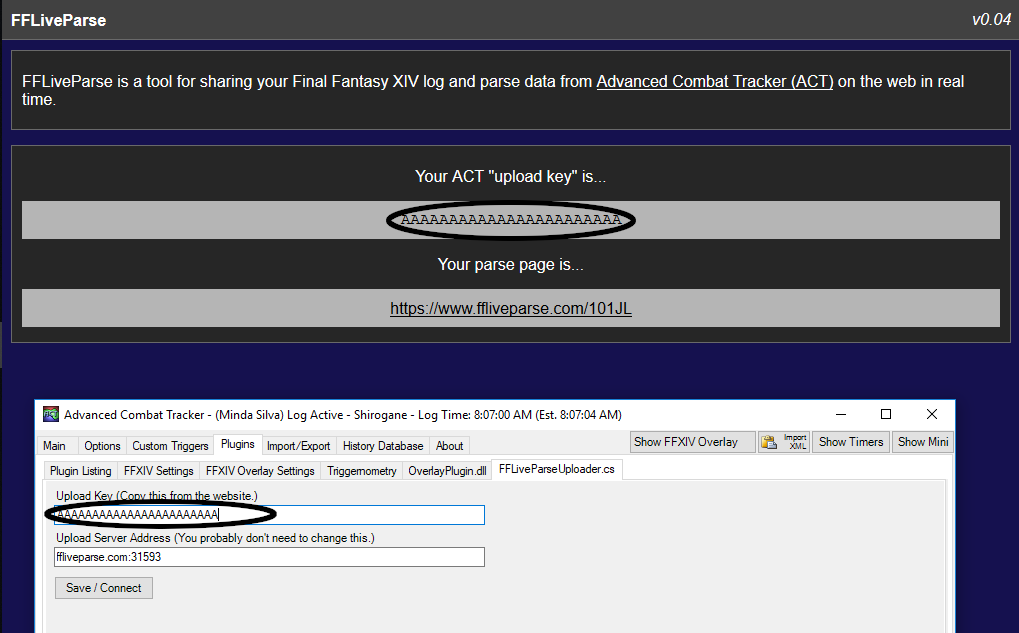
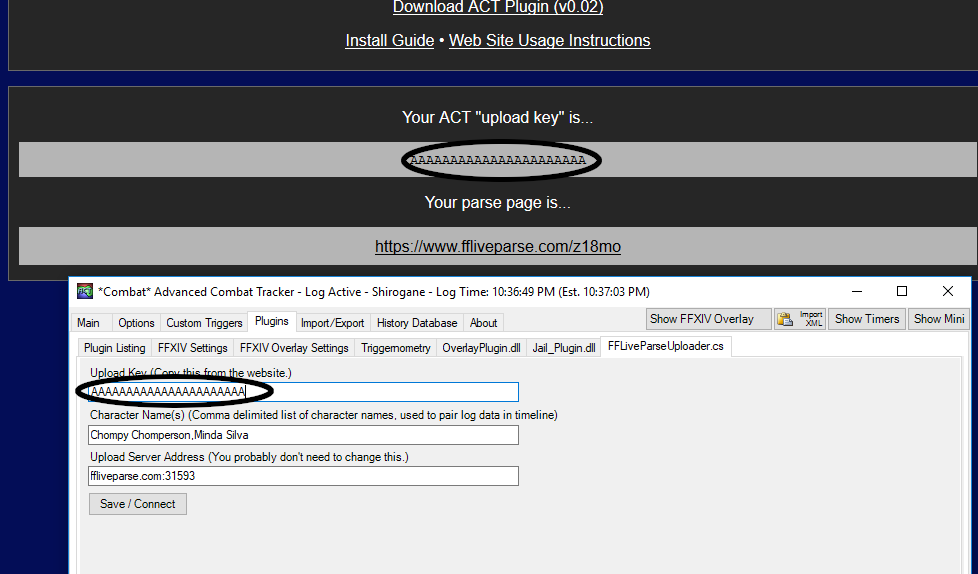
added character names text field, perform a replace on all log lines replacing character names with act default character name

diff --git a/FFLiveParseUploader.cs b/FFLiveParseUploader.cs
@@ -27,7 +27,7 @@ using Advanced_Combat_Tracker;
 [assembly: AssemblyTitle("FFLiveParse Uploader")]
 [assembly: AssemblyDescription("Provides real time parse upload that can be shared with other via the web.")]
 [assembly: AssemblyCompany("Nathan Ogden")]
-[assembly: AssemblyVersion("0.0.2")]
+[assembly: AssemblyVersion("0.0.3")]
 
 namespace ACT_Plugin
 {
@@ -53,9 +53,12 @@ namespace ACT_Plugin
         private string remoteHost;                              // Remote host name to send data to
         private UInt16 remotePort;                              // Remote port
         private string privateKey;                              // Private key
+        private List<string> characterNames;                    // List of character names
 
 		private TextBox textboxPrivateKey;                      // form text box for private key
 		private System.Windows.Forms.Label labelPrivateKey;     // form label for private key
+		private TextBox textboxCharNames;                       // form text box for character names
+		private System.Windows.Forms.Label labelCharNames;      // form label for character names
 		private TextBox textboxHost;                            // form text box for host
 		private System.Windows.Forms.Label labelHost;           // form label for host
         private Button buttonSave;                              // form button to save settings
@@ -65,6 +68,8 @@ namespace ACT_Plugin
         {
 			this.labelPrivateKey = new System.Windows.Forms.Label();
 			this.textboxPrivateKey = new System.Windows.Forms.TextBox();
+            this.labelCharNames = new System.Windows.Forms.Label();
+            this.textboxCharNames = new System.Windows.Forms.TextBox();
 			this.labelHost = new System.Windows.Forms.Label();
 			this.textboxHost = new System.Windows.Forms.TextBox();
             this.buttonSave = new System.Windows.Forms.Button();
@@ -82,30 +87,46 @@ namespace ACT_Plugin
 			this.textboxPrivateKey.Size = new System.Drawing.Size(431, 20);
 			this.textboxPrivateKey.TabIndex = 1;
 			this.textboxPrivateKey.Text = "";
+            // label - character names
+			this.labelCharNames.AutoSize = true;
+			this.labelCharNames.Location = new System.Drawing.Point(8, 50);
+			this.labelCharNames.Name = "labelCharNames";
+			this.labelCharNames.Size = new System.Drawing.Size(434, 13);
+			this.labelCharNames.TabIndex = 2;
+			this.labelCharNames.Text = "Character Name(s) (Comma delimited list of character names, used to pair log data in timeline)";
+			// textbox - character names
+			this.textboxCharNames.Location = new System.Drawing.Point(8, 67);
+			this.textboxCharNames.Name = "textboxCharNames";
+			this.textboxCharNames.Size = new System.Drawing.Size(431, 20);
+			this.textboxCharNames.TabIndex = 3;
+			this.textboxCharNames.Text = "";
             // label - host
 			this.labelHost.AutoSize = true;
-			this.labelHost.Location = new System.Drawing.Point(8, 50);
+			this.labelHost.Location = new System.Drawing.Point(8, 92);
 			this.labelHost.Name = "labelHost";
 			this.labelHost.Size = new System.Drawing.Size(434, 13);
-			this.labelHost.TabIndex = 2;
+			this.labelHost.TabIndex = 4;
 			this.labelHost.Text = "Upload Server Address (You probably don't need to change this.)";
 			// textbox - host
-			this.textboxHost.Location = new System.Drawing.Point(8, 66);
+			this.textboxHost.Location = new System.Drawing.Point(8, 108);
 			this.textboxHost.Name = "textboxHost";
 			this.textboxHost.Size = new System.Drawing.Size(431, 20);
-			this.textboxHost.TabIndex = 3;
+			this.textboxHost.TabIndex = 5;
 			this.textboxHost.Text = DEFAULT_REMOTE_HOST + ":" + DEFAULT_REMOTE_PORT;
+
             // button save
-            this.buttonSave.Location = new System.Drawing.Point(8, 95);
+            this.buttonSave.Location = new System.Drawing.Point(8, 134);
             this.buttonSave.Name = "buttonSave";
             this.buttonSave.Size = new System.Drawing.Size(100, 24);
-            this.buttonSave.TabIndex = 4;
+            this.buttonSave.TabIndex = 6;
             this.buttonSave.Text = "Save / Connect";
 
 			this.AutoScaleDimensions = new System.Drawing.SizeF(6F, 13F);
 			this.AutoScaleMode = System.Windows.Forms.AutoScaleMode.Font;
 			this.Controls.Add(this.textboxPrivateKey);
 			this.Controls.Add(this.labelPrivateKey);
+            this.Controls.Add(this.labelCharNames);
+            this.Controls.Add(this.textboxCharNames);
             this.Controls.Add(this.textboxHost);
             this.Controls.Add(this.labelHost);
             this.Controls.Add(this.buttonSave);
@@ -314,16 +335,36 @@ namespace ACT_Plugin
         {
             List<Byte> sendData = new List<Byte>();
             sendData.Add(DATA_TYPE_LOG_LINE);
+            // find/replace character names in log line
+            string logLine = logInfo.logLine;
+            if (logInfo.inCombat) {
+                foreach (string charName in this.characterNames) {
+                    logLine = logLine.Replace(
+                        charName,
+                        ActGlobals.oFormActMain.ActiveZone.ActiveEncounter.CharName
+                    );
+                    if (logLine != logInfo.logLine) {
+                        break;
+                    }
+                }
+            }
             // encounter id, if active
             Int32 encounterId = 0;
             if (logInfo.inCombat) {
                 encounterId = ActGlobals.oFormActMain.ActiveZone.ActiveEncounter.StartTime.GetHashCode();
+                // string replace character names in log line
+                foreach (string charName in this.characterNames) {
+                    logLine.Replace(
+                        charName,
+                        ActGlobals.oFormActMain.ActiveZone.ActiveEncounter.CharName
+                    );
+                }
             }
             prepareInt32(ref sendData, encounterId);
             // time
             prepareDateTime(ref sendData, logInfo.detectedTime);
             // line
-            prepareString(ref sendData, logInfo.logLine);
+            prepareString(ref sendData, logLine);
             // send
             sendUdp(ref sendData);
         }
@@ -332,6 +373,7 @@ namespace ACT_Plugin
         {
             this.remoteHost = DEFAULT_REMOTE_HOST;
             this.remotePort = DEFAULT_REMOTE_PORT;
+            this.characterNames = new List<string>();
             if (!File.Exists(settingFilePath)) {
                 return;
             }
@@ -346,7 +388,11 @@ namespace ACT_Plugin
             }
             int pos = 0;
             List<string> settingStrings = new List<string>();
-            for (var i = 0; i < 2; i++) {
+            for (var i = 0; i < 3; i++) {
+                if (pos >= data.Count) {
+                    settingStrings.Add("");
+                    continue;
+                }
                 byte[] stringLenArr = data.GetRange(pos, 2).ToArray();
                 if (BitConverter.IsLittleEndian) {
                     Array.Reverse(stringLenArr);
@@ -361,14 +407,21 @@ namespace ACT_Plugin
                 settingStrings.Add("");
             }
             this.privateKey = settingStrings[0];
+            // parse host+port
             string[] hostData = settingStrings[1].Split(':');
             this.remoteHost = hostData[0];
             if (hostData.Length > 1) {
                 UInt16.TryParse(hostData[1], out this.remotePort);
             }
+            // read character names
+            var charNamesListElement = settingStrings[2].Split(',');
+            for (var i = 0; i < charNamesListElement.Length; i++) {
+                this.characterNames.Add(charNamesListElement[i].Trim());
+            }
             // update textboxes
             textboxPrivateKey.Text = settingStrings[0];
             textboxHost.Text = settingStrings[1];
+            textboxCharNames.Text = settingStrings[2];
         }
 
         void saveSettings()
@@ -376,12 +429,13 @@ namespace ACT_Plugin
             List<Byte> saveData = new List<Byte>();
             prepareString(ref saveData, this.textboxPrivateKey.Text);
             prepareString(ref saveData, this.textboxHost.Text);
+            prepareString(ref saveData, this.textboxCharNames.Text);
             Byte[] saveBytes = saveData.ToArray();
             using (FileStream fs = new FileStream(settingFilePath, FileMode.Create, FileAccess.Write, FileShare.Write))
             {
                 fs.Write(saveBytes, 0, saveBytes.Length);
             }
-            lblStatus.Text = " Settings saved.";
+            lblStatus.Text = "Settings saved.";
         }
 
     }

diff --git a/README.md b/README.md
@@ -7,10 +7,10 @@ This ACT plugin uploads your parses and log data to the FFLiveParse server.
 
 ## Getting Started
 
-1. Visit ffliveparse.com, click "Click here to generate your upload key."
+1. Visit [ffliveparse.com](ffliveparse.com), click "Click here to generate your upload key."
 2. You should now have an ACT upload key as well as a parse page that you can share with others.
 
-1. Download the ACT plugin if you have already. Extract this ZIP. Open ACT and navigate to the plugins tab.
+1. Download the [ACT plugin](https://github.com/chompy/ffliveparse_act_plugin/releases) if you haven't already. Extract this ZIP. Open ACT and navigate to the plugins tab.
 2. Click Browse and locate the 'FFLiveParseUploader.cs' file.
 3. Click 'Add/Enable Plugin.'
 
@@ -22,4 +22,4 @@ This ACT plugin uploads your parses and log data to the FFLiveParse server.
 
 ![Generate upload key](FFLiveParseSetup2.png "Generate upload key")
 
-
+7. Enter the names of all your characters in the 'Character Names' field, seperate each character name with a comma (,). This will ensure all timeline actions can be linked to your parse data. Example... "Character One, Character Two, Character Three." If you skip this step then your actions might appear under "Non-Player Combatant(s)."
